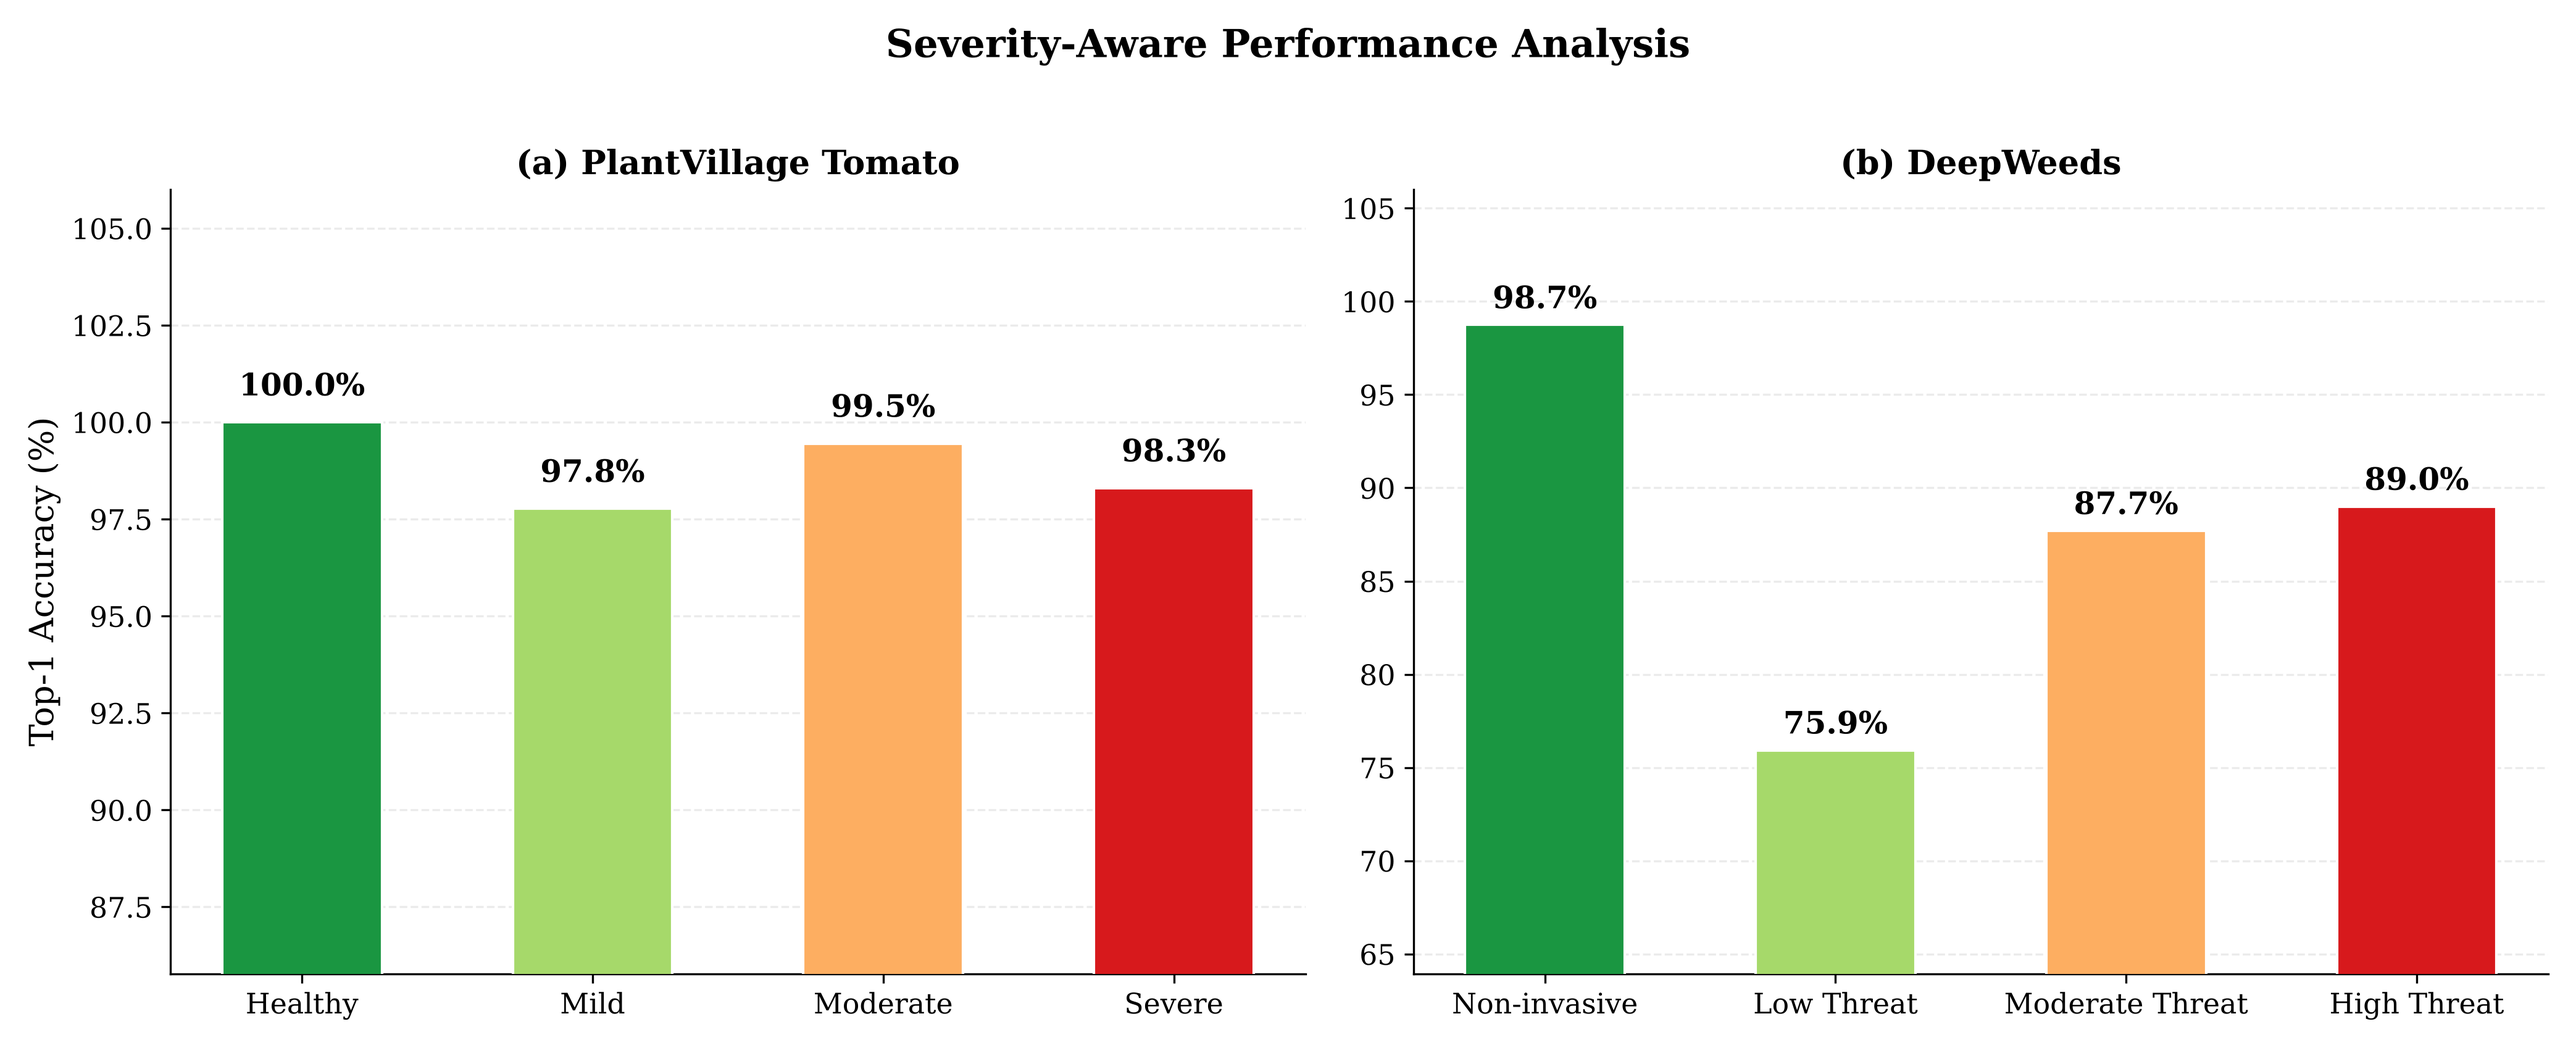
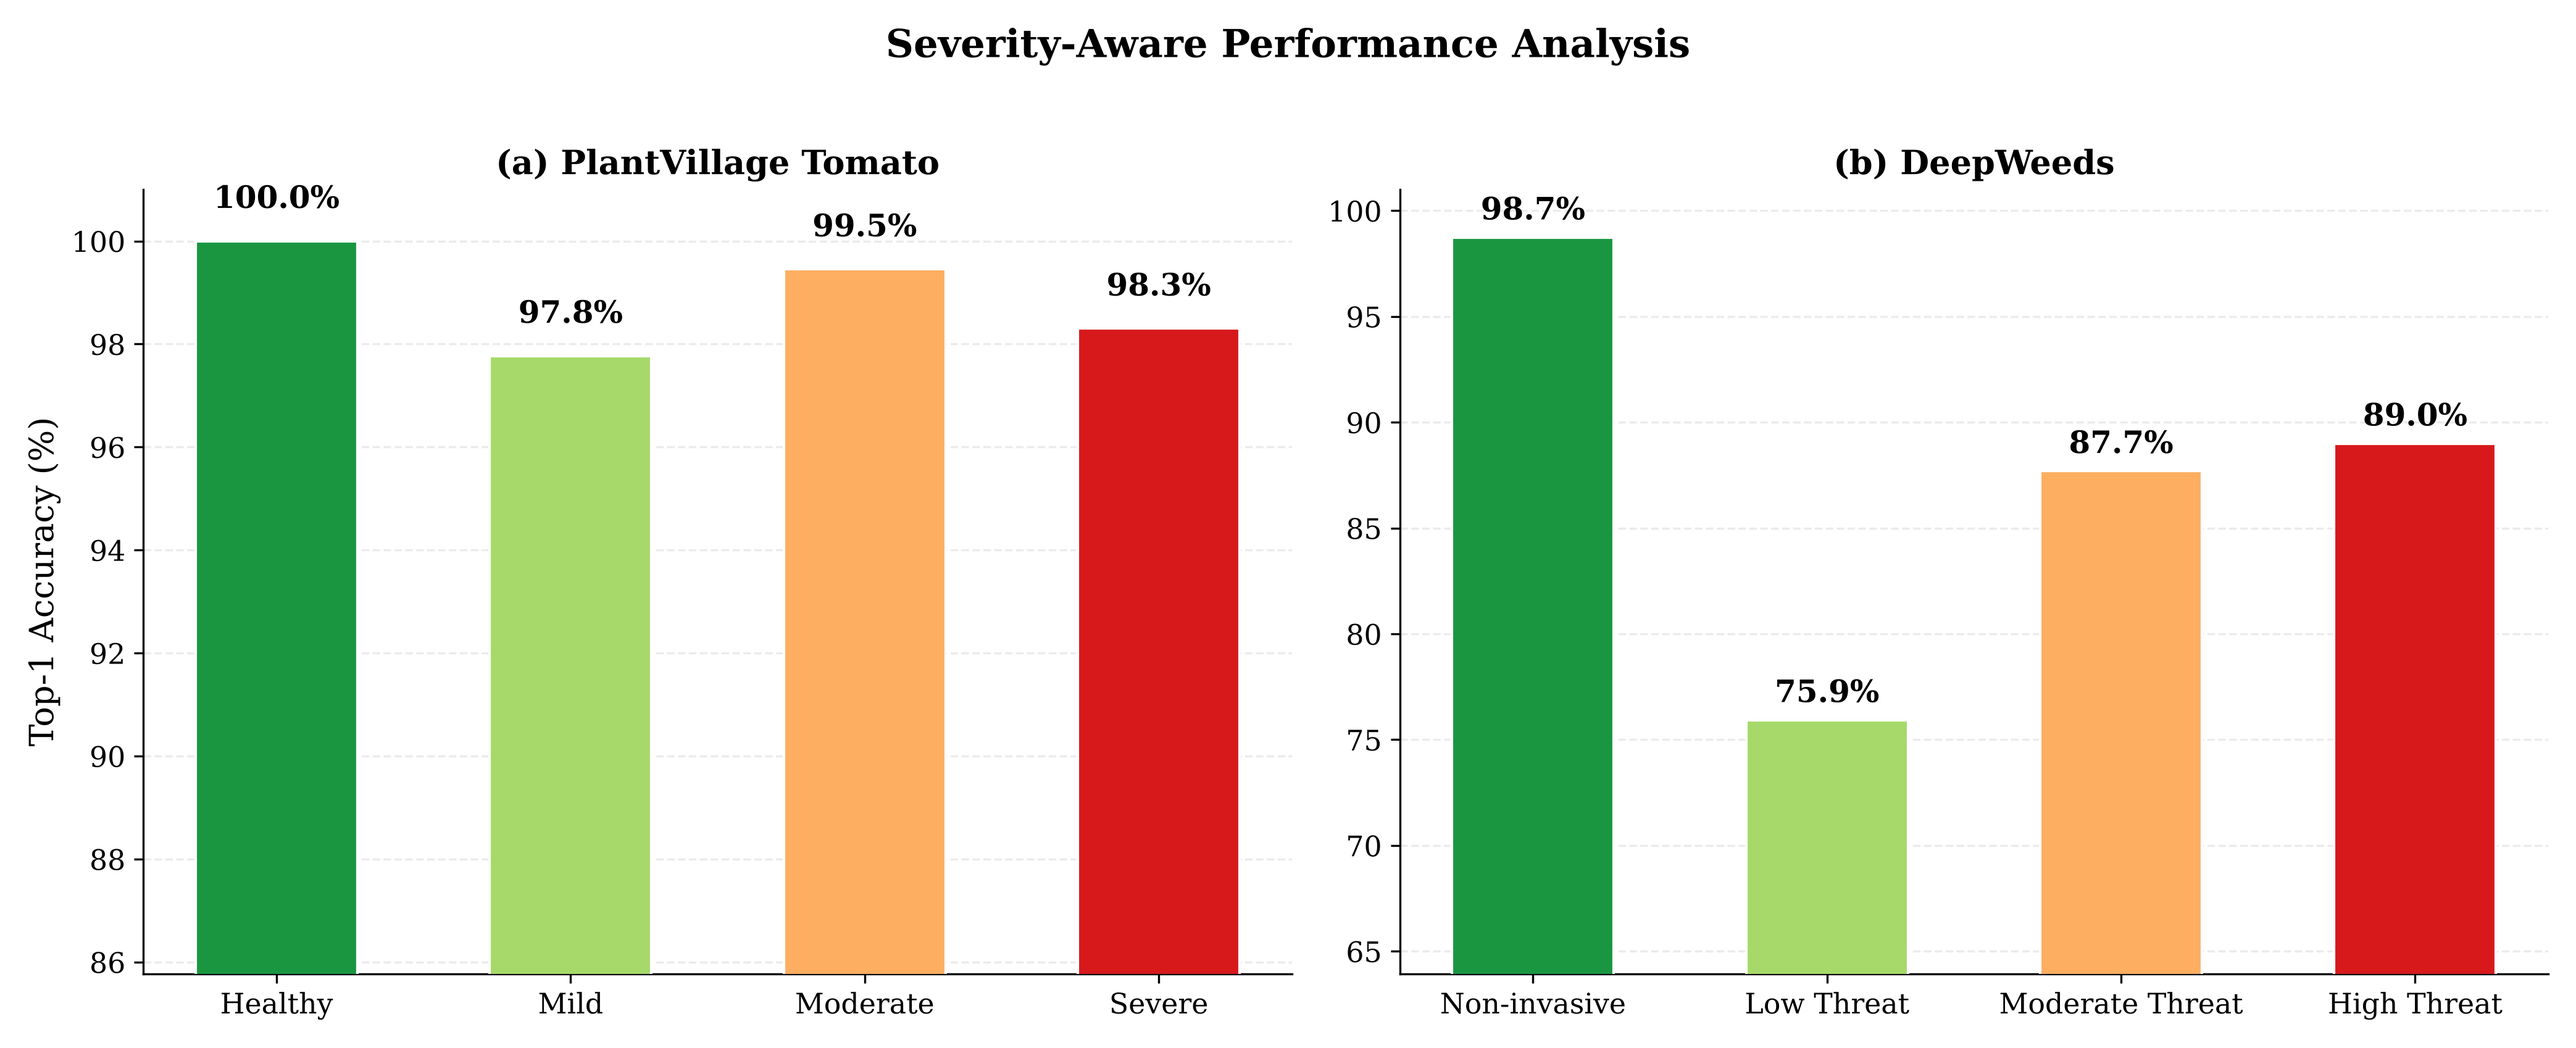
Fix severity chart Y-axis to cap at 100% instead of 106%
Claude-Session: https://claude.ai/code/session_01K85NWP7R46292eL9EDr4Dm

diff --git a/generate_improved_plots.py b/generate_improved_plots.py
@@ -277,7 +277,7 @@ for idx, (ds_title, groups) in enumerate(severity.items()):
     if idx == 0:
         ax.set_ylabel('Top-1 Accuracy (%)')
     ax.set_title(f'({chr(97+idx)}) {ds_title}', fontsize=13, fontweight='bold')
-    ax.set_ylim(max(0, min(vals)-12), 106)
+    ax.set_ylim(max(0, min(vals)-12), 101)
     ax.yaxis.grid(True, alpha=0.25, linestyle='--', zorder=0)
     ax.set_axisbelow(True)
     ax.spines['top'].set_visible(False)
